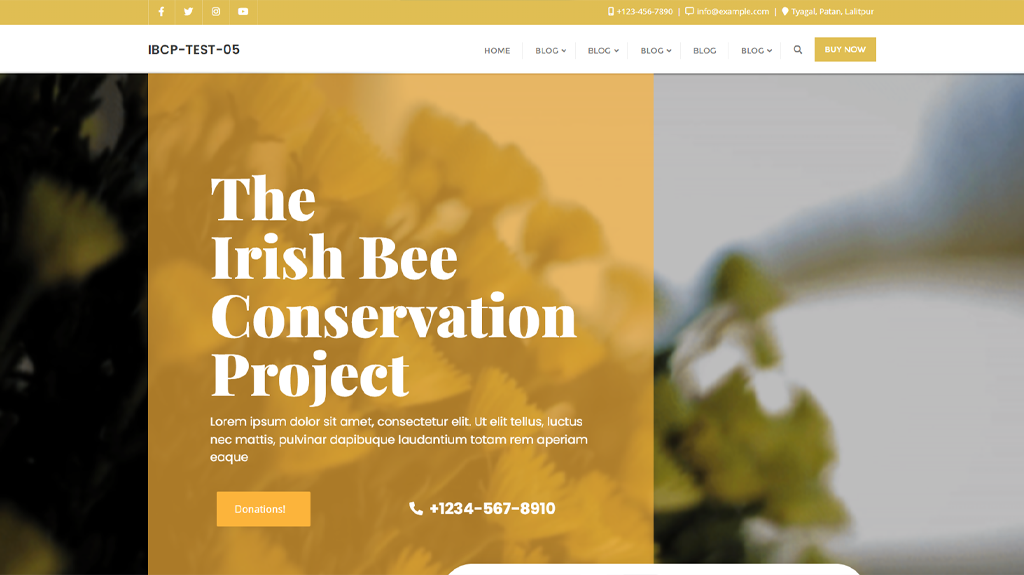
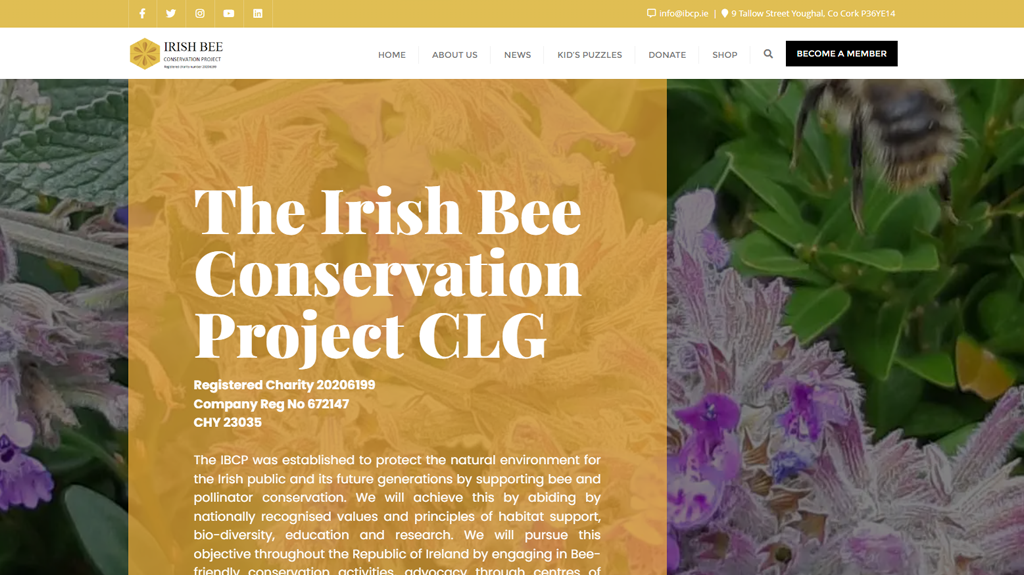
Updated some info and included a new project

diff --git a/src/components/JobData.jsx b/src/components/JobData.jsx
@@ -3,8 +3,19 @@ export const jobData = [
     key: "MDP",
     title: "Irish Bee Conservation Project",
     desc: "During the summer of 2023, I was brought in to redesign and redevelop the web presence for the Irish Bee Conservation project. Their current site was resulting in unfavourable User Experience outcomes and as a result, customers were not being driven to their store and donation system as much as they would like. My job was to come in and understand the company's problems, propose a technology based solution and implement that solution. I worked closely with the company's founder to understand the company's goals and vision. I then created a new website using their existing WordPress site as a base. The site was designed to be highly interactive and engaging, with a focus on driving customers to the store and donation system. The site is currently in development and will be released in the coming months.",
+    view: "http://ibcp.ie/",
     imgSrc: require("./portfolioImages/port5.png"),
     thumb: require("./portfolioImages/ibcp.webp"),
+  },
+  {
+    key: "SQLBlog",
+    title: "Full Stack Blog with SQL",
+    desc: "During the summer of 2023, I was brought in to redesign and redevelop the web presence for the Irish Bee Conservation project. Their current site was resulting in unfavourable User Experience outcomes and as a result, customers were not being driven to their store and donation system as much as they would like. My job was to come in and understand the company's problems, propose a technology based solution and implement that solution. I worked closely with the company's founder to understand the company's goals and vision. I then created a new website using their existing WordPress site as a base. The site was designed to be highly interactive and engaging, with a focus on driving customers to the store and donation system. The site is currently in development and will be released in the coming months.",
+    view: "http://ibcp.ie/",
+    imgSrc: require("./portfolioImages/port5.png"),
+    video: "https://www.youtube.com/embed/GYMN7THgMqU?si=-D1qKs3fymPuOzot",
+    github: "https://github.com/KevinThePirate/Full-Stack-Blog-Web-App",
+    thumb: require("./portfolioImages/sql-thumb.png"),
   },
   {
     key: "MDP",
@@ -32,6 +43,7 @@ export const jobData = [
     desc: "For my final year project in Creative Digital Media, I developed a React application that aimed to explore the correlation between habits and mood. This project served as my thesis for my undergraduate degree and was the most ambitious project I have worked on to date.  Leveraging the power of React, I crafted a user-friendly interface that allowed users to log in and seamlessly track their habits and mood over time. By integrating a Firebase backend, I ensured that user data was securely stored and easily accessible. The application enabled users to input their daily habits and record their mood, and then provided visualizations and analysis to showcase any potential connections between the two. This unique approach to understanding the impact of habits on mood resonated with both users and my academic evaluators. ",
     view: "https://final-year-project-version-b.vercel.app/",
     github: "https://github.com/KevinThePirate/Final-Year-Project-Version-B",
+    video: "https://www.youtube.com/embed/ApLa5r7-o3E?si=o1tGsPtN3D-r0rLH",
     figma:
       "https://www.figma.com/file/pegPaFApIKhJWfFD2H7cNh/Digital-Overlay-Prototype?type=design&node-id=0%3A1&mode=design&t=qIO3OhmZjP0PDikp-1",
     doc: "https://drive.google.com/file/d/1Vogk1cvB8PAIdQI9wWByRsZ75xfGvA12/view?usp=drive_link",

diff --git a/src/components/PortfolioTabs.jsx b/src/components/PortfolioTabs.jsx
@@ -29,17 +29,17 @@ export default function App(props) {
       </nav>
       <div className="display-image-container">
         <AnimatePresence exitBeforeEnter>
-          {
-            <motion.img
-              key={selectedTab ? selectedTab.title : "empty"}
-              src={selectedTab.imgSrc}
-              layoutId="display-image"
-              className="display-image"
-              initial={{ opacity: 0 }}
-              animate={{ opacity: 1 }}
-              transition={{ duration: 0.3 }}
-              exit={{ opacity: 0 }}
-            />
+          {selectedTab.video ? (<iframe width="100%" height="100%" src={selectedTab.video} title="YouTube video player" frameborder="0" allow="accelerometer; autoplay; clipboard-write; encrypted-media; gyroscope; picture-in-picture; web-share" allowfullscreen></iframe>) : (<motion.img
+            key={selectedTab ? selectedTab.title : "empty"}
+            src={selectedTab.imgSrc}
+            layoutId="display-image"
+            className="display-image"
+            initial={{ opacity: 0 }}
+            animate={{ opacity: 1 }}
+            transition={{ duration: 0.3 }}
+            exit={{ opacity: 0 }}
+          />)
+
           }
         </AnimatePresence>
       </div>

diff --git a/src/components/ingredients.jsx b/src/components/ingredients.jsx
@@ -1,7 +1,7 @@
 export const allIngredients = [
   {
     label: "IBCP",
-    timeline: "Jun '23 - Aug '23",
+    timeline: "Jun '23 - Dec '23",
     desc: "Brought on to redesign and revamp the website for the Irish Bee Conversation Project. This involves me redesigning their Wordpress site, as well as implementing a new design and adding new features such as interactive elements and a new donation system.",
   },
   {
